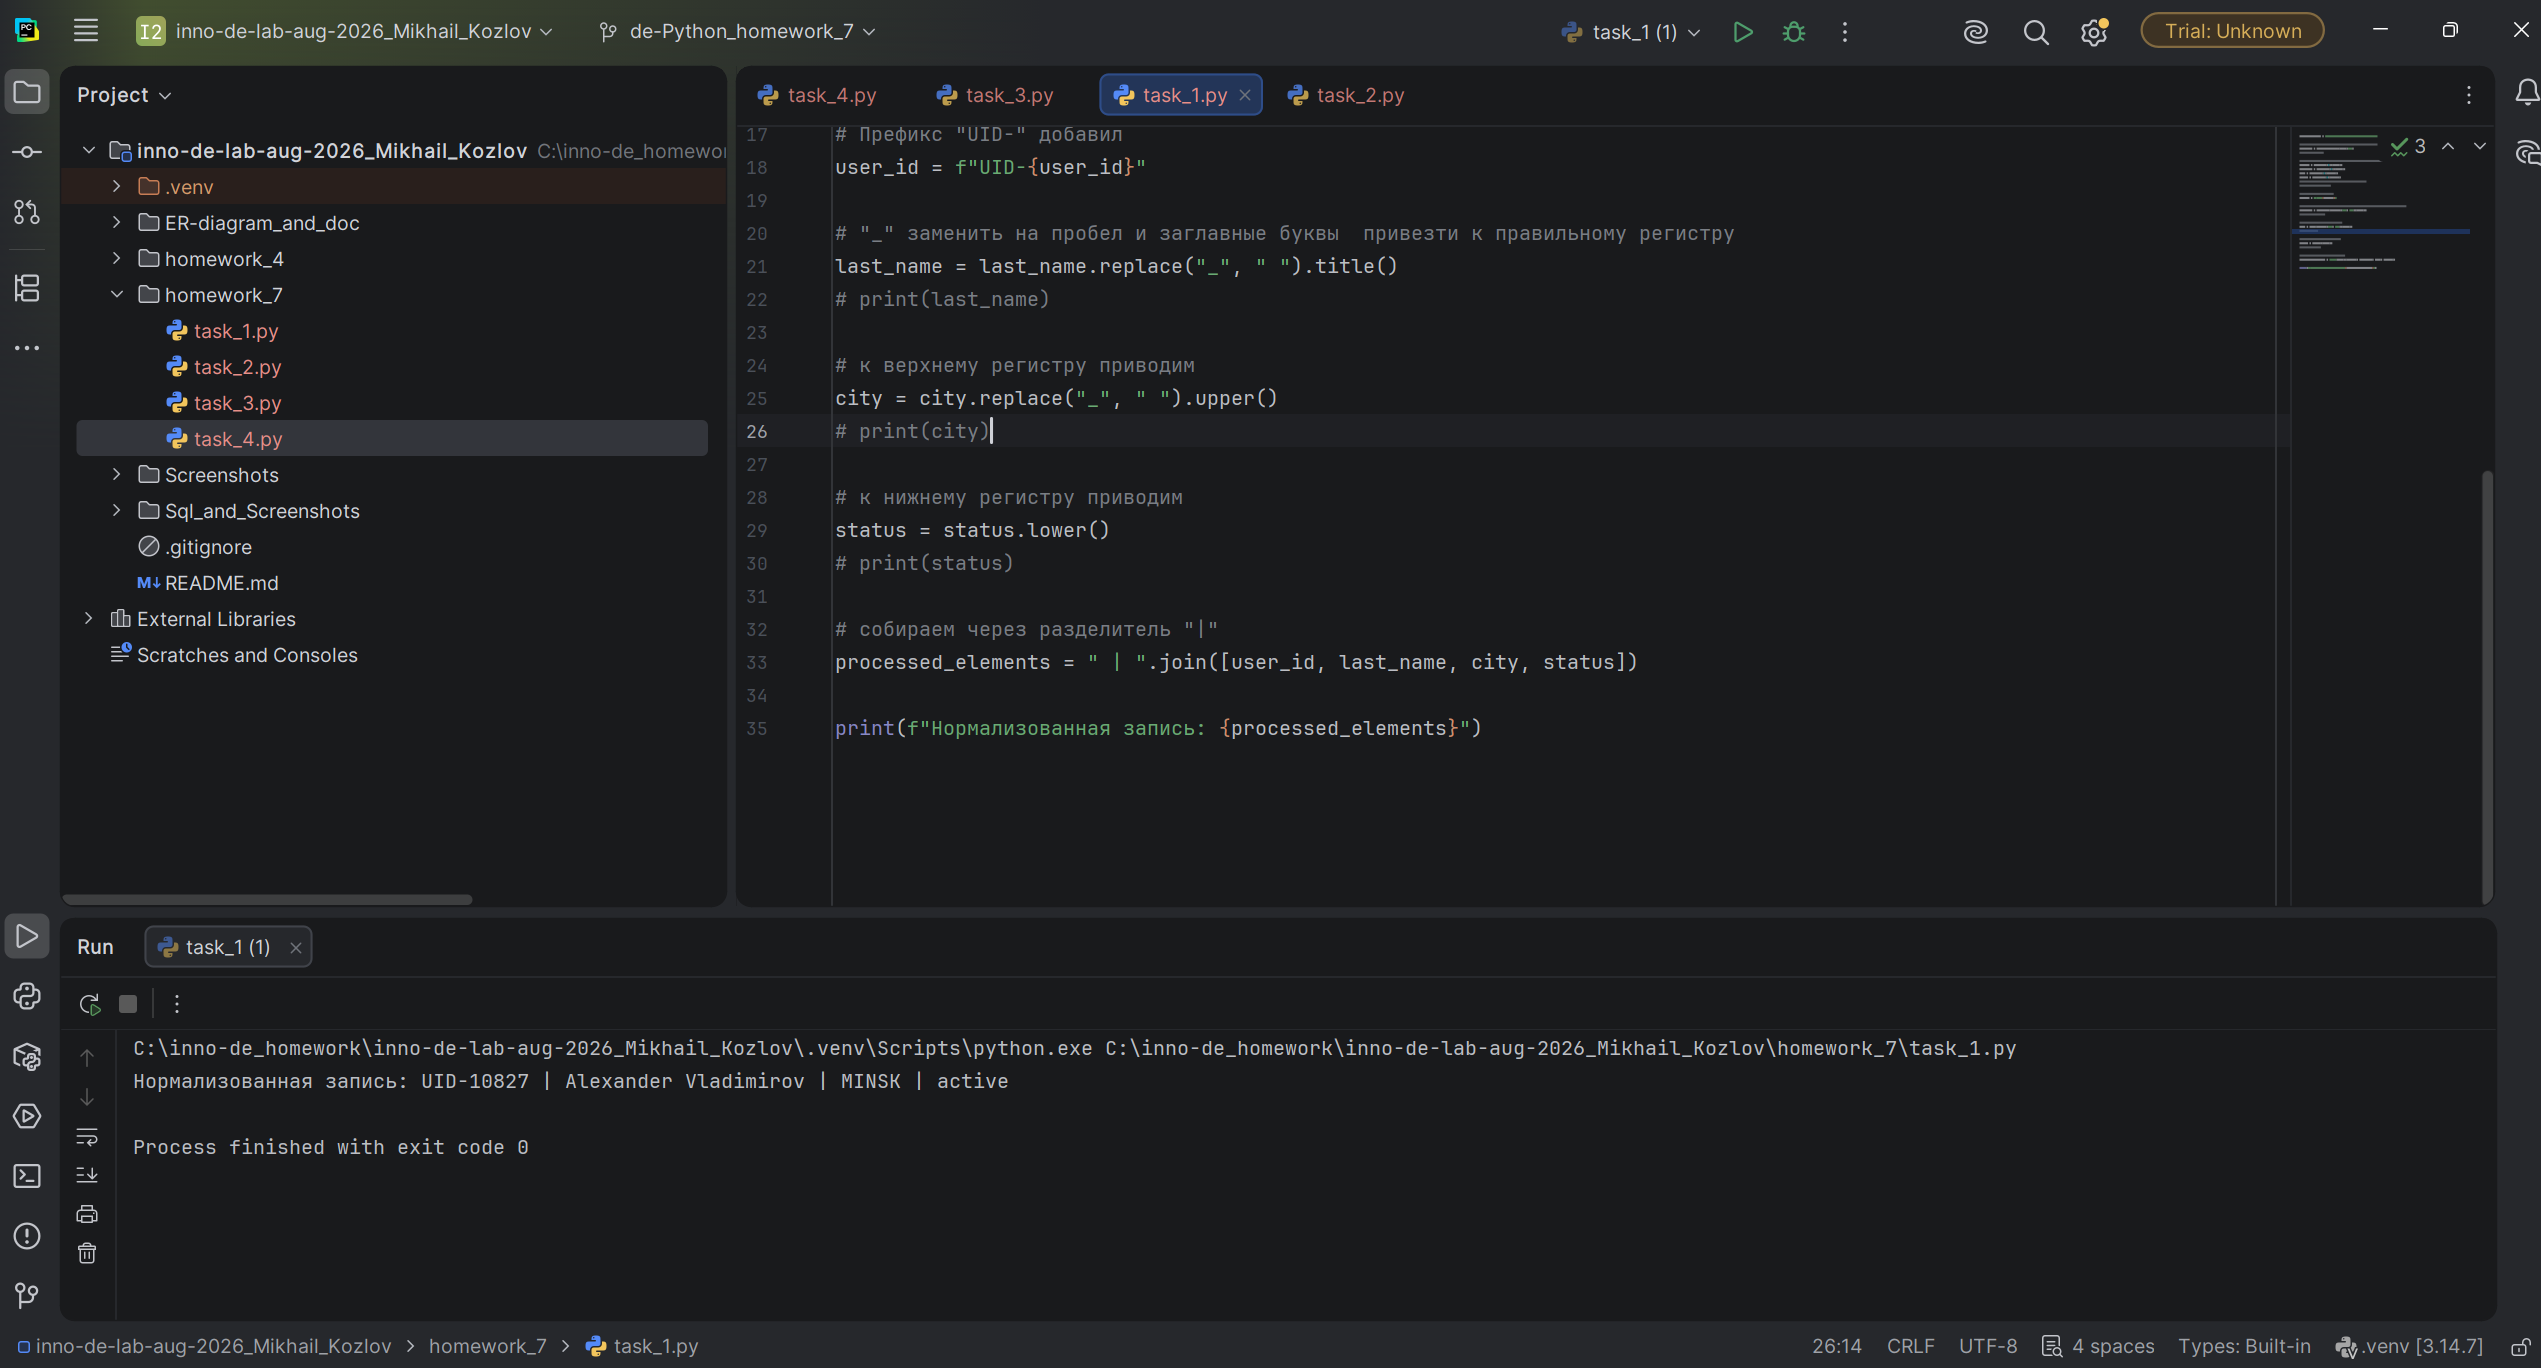
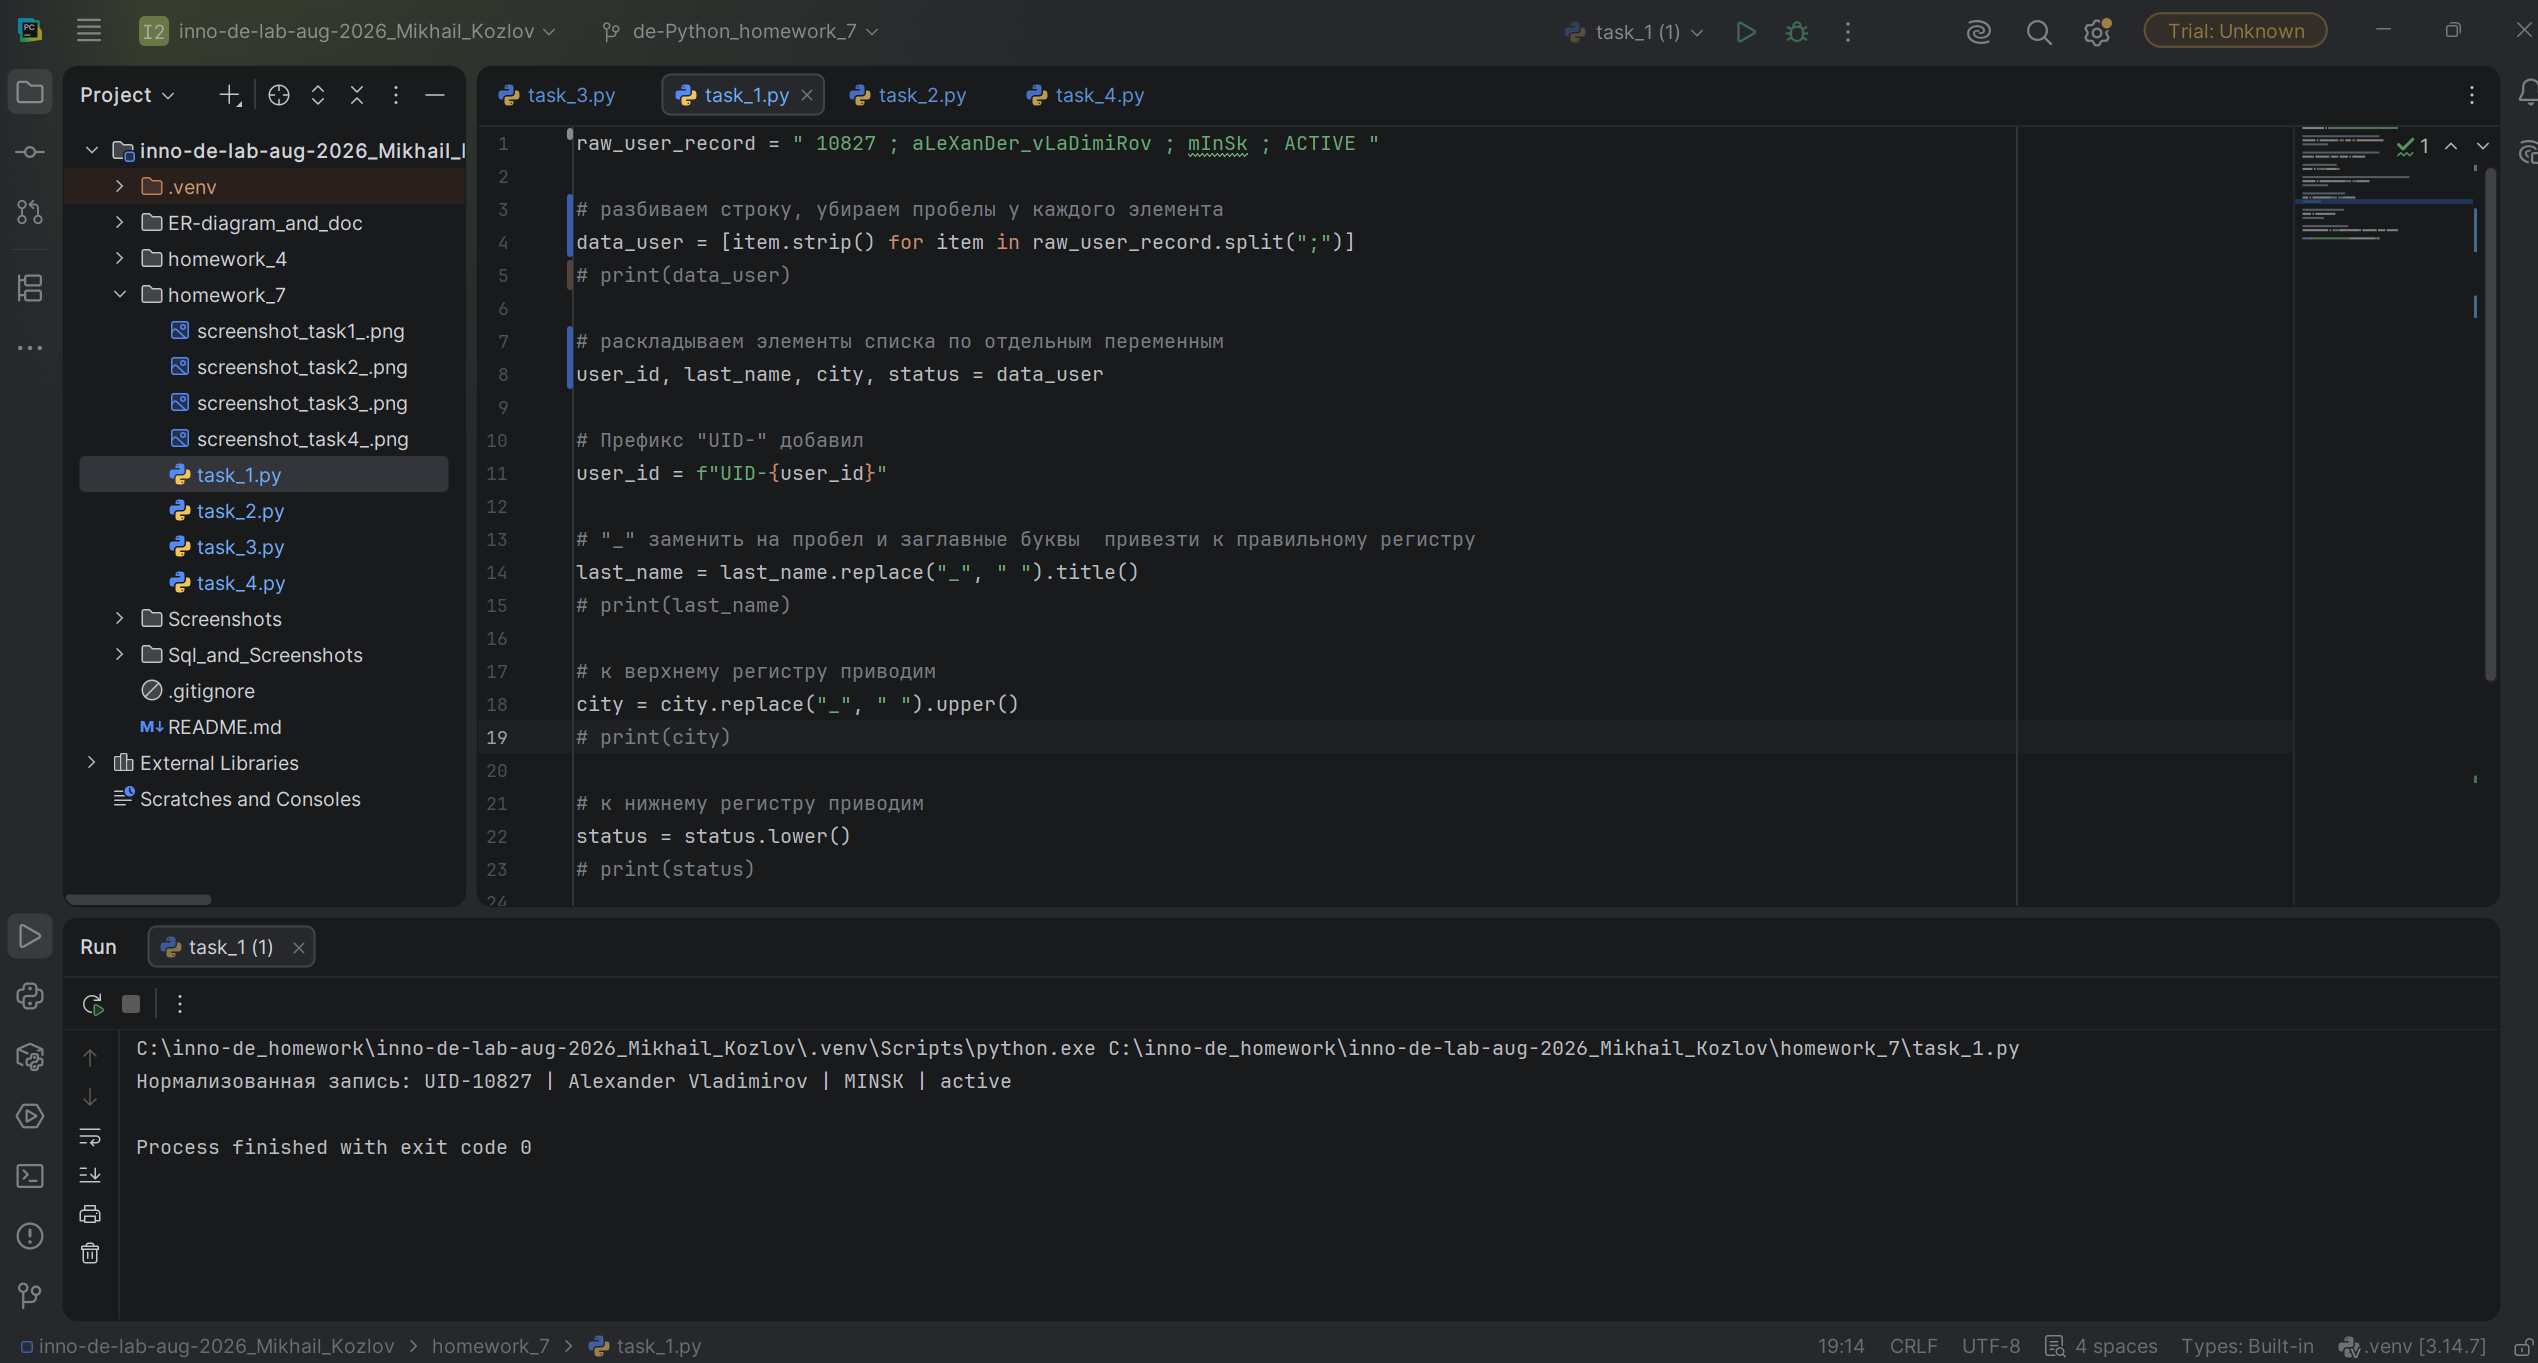
fix task1 and task3

diff --git a/homework_7/task_1.py b/homework_7/task_1.py
@@ -1,18 +1,11 @@
-
-
 raw_user_record = " 10827 ; aLeXanDer_vLaDimiRov ; mInSk ; ACTIVE "
 
-# Разбить строку на элементы и получаем список c помощью .split()
-data_user = raw_user_record.split(";")
-#print(data_user)
+# разбиваем строку, убираем пробелы у каждого элемента
+data_user = [item.strip() for item in raw_user_record.split(";")]
+# print(data_user)
 
-# Удалить пробелы в начале и конце элемента с помощью .strip()
-user_id = data_user[0].strip()
-last_name = data_user[1].strip()
-city = data_user[2].strip()
-status = data_user[3].strip()
-# withou_spaces = user_id,last_name,city,status
-# print(withou_spaces)
+# раскладываем элементы списка по отдельным переменным
+user_id, last_name, city, status = data_user
 
 # Префикс "UID-" добавил
 user_id = f"UID-{user_id}"

diff --git a/homework_7/task_2.py b/homework_7/task_2.py
@@ -2,10 +2,10 @@ raw_transactions = ["SUCCESS:100", "FAILED:50", "SUCCESS:-10", "SUCCESS:0", "SUC
 
 #
 transactions = [
-    int(transaction.split(":")[1]) # разбиваем строку по : и преобразум вторую часть в целое число
+    int(transaction.split(":")[1])  # разбиваем строку по : и преобразум вторую часть в целое число
     for transaction in raw_transactions  # перебираем каждую транзакцию
-    if transaction.startswith("SUCCESS:") # оставляем транзакции SUCCESS
-    and int(transaction.split(":")[1]) > 0 #  проверка, что сумма > 0
+    if transaction.startswith("SUCCESS:")  # оставляем транзакции SUCCESS
+       and int(transaction.split(":")[1]) > 0  # проверка, что сумма > 0
 ]
 
 print(f"Очищенные транзакции: {transactions}")

diff --git a/homework_7/task_3.py b/homework_7/task_3.py
@@ -1,10 +1,9 @@
-
 db_config = {
-"connection": {
-"host": "production-db.internal",
-"port": 5432,
-"user": "postgres"
-}
+    "connection": {
+        "host": "production-db.internal",
+        "port": 5432,
+        "user": "postgres"
+    }
 }
 
 #  Извлекаем значения host и port

diff --git a/homework_7/task_4.py b/homework_7/task_4.py
@@ -1,4 +1,3 @@
-
 requested_roles = ["guest", "developer", "guest", "admin", "developer", "guest"]
 required_admin_roles = {"admin", "security_officer", "audit_manager"}
 
